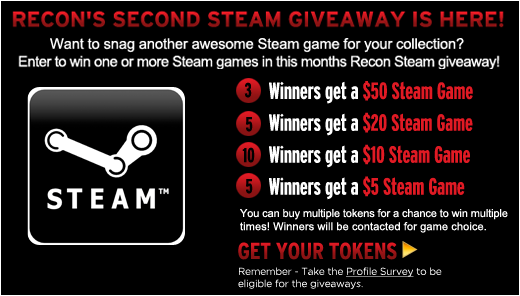
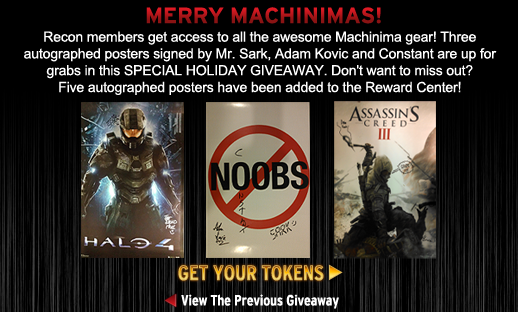
Changed promo on Machinima Recon to 2 promos (with next/previous)

diff --git a/public/css/starbar-machinima.css b/public/css/starbar-machinima.css
@@ -358,21 +358,20 @@
 
 #sayso-starbar #starbar-player-console #starbar-promo .sb_popBoxInner .sb_popContent{
 	width: 520px;
-	height: 290px;
+	height: 304px;
 	padding: 0 !important;
 	margin: 0 !important;
 }
 
 #sayso-starbar #starbar-player-console #starbar-promo img
 {
-	margin-top:3px;
+	margin: 1px 0 0 1px;
 }
 
 #sayso-starbar #starbar-player-console #starbar-promo .sb_promoBG{
 	width: 520px;
-	height: 296px;
+	height: 304px;
 	background-repeat: no-repeat;
-
 }
 
 /*
@@ -395,13 +394,6 @@
 
 #sayso-starbar #starbar-player-console #starbar-promo #sb_slideshow{
 	position: relative;
-}
-
-#sayso-starbar #starbar-player-console #starbar-promo .sb_promo_week1{
-	display: block;
-	background-image: url('../images/machinima/img_promo_3.png');
-	background-position: 0 0;
-	margin-top:2px;
 }
 
 #sayso-starbar #starbar-player-console #starbar-promo .sb_slide{

diff --git a/public/js/starbar/starbar-new.js b/public/js/starbar/starbar-new.js
@@ -1415,8 +1415,8 @@ $SQ(function(){
 			$SQ('#sb_slideshow', target).cycle({
 				timeout: 0,
 				speed: 500,
-				next: '#sb_slideshow_nav .sb_next',
-				prev: '#sb_slideshow_nav .sb_prev'
+				next: '#sb_slideshow .sb_next',
+				prev: '#sb_slideshow .sb_prev'
 			});
 		}
 	}
